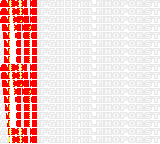
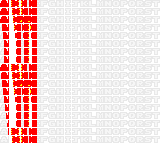
make timing great again

Changed region(s): [[0.1562, 0.0, 0.1875, 1.0], [0.0312, 0.0, 0.0625, 1.0]]

diff --git a/gb/src/cpu/cpu.rs b/gb/src/cpu/cpu.rs
@@ -5,7 +5,6 @@ use parse_display::{Display, FromStr};
 
 use crate::{
     emulator::{Hardware, SplitU16},
-    interrupts::R_IF,
     ppu::registers::{R_BGP, R_LCDC, R_OBP0, R_OBP1, R_SCX, R_SCY, R_STAT},
     traits::MemoryAccess,
 };
@@ -62,12 +61,11 @@ pub enum Reg16 {
 }
 
 const M_CYCLE_CLOCKS: u32 = 4;
-const LCDC_BG_ENABLE: u8 = 0b0000_0001;
 
 pub struct Cpu {
     pub frame_cycles: u32,
     pub total_cycles: u32,
-    // write which finishes one T-cycle after the end of M-cycle
+    // STAT write which finishes one T-cycle after the end of M-cycle
     delayed_write: Option<(u16, u8)>,
 
     pub halted: bool,
@@ -226,9 +224,11 @@ impl Cpu {
 
     // Some DMG registers are written at a different T-cycle than the end of the M-cycle,
     // see "conflict maps" https://github.com/LIJI32/SameBoy/blob/master/Core/sm83_cpu.c
+    // and https://github.com/Docheinstein/docboy (CPU writes at T1, reads at T3, i.e. 2 dots
+    // before the read, which is T2 here)
     pub fn write_u8_tick(&mut self, hw: &mut Hardware, address: u16, value: u8) {
         match address {
-            // Palettes and LCDC are written in 2 steps, the old value is merged with the new one first
+            // Palettes are written in 2 steps, the old value is merged with the new one first
             R_BGP | R_OBP0 | R_OBP1 => {
                 self.tick_range(hw, 0, 2);
                 let old_value = hw.read_byte(address);
@@ -237,15 +237,8 @@ impl Cpu {
                 hw.write_byte(address, value);
                 self.tick_range(hw, 3, M_CYCLE_CLOCKS);
             }
-            R_LCDC => {
-                self.tick_range(hw, 0, 2);
-                let old_value = hw.read_byte(address);
-                hw.write_byte(address, old_value | (value & LCDC_BG_ENABLE));
-                self.tick_range(hw, 2, 3);
-                hw.write_byte(address, value);
-                self.tick_range(hw, 3, M_CYCLE_CLOCKS);
-            }
-            R_SCX => {
+            // Written at docboy's write timing (LCDC on/off happens immediately)
+            R_LCDC | R_SCX => {
                 self.tick_range(hw, 0, 2);
                 hw.write_byte(address, value);
                 self.tick_range(hw, 2, M_CYCLE_CLOCKS);
@@ -254,12 +247,6 @@ impl Cpu {
                 self.tick_range(hw, 0, 3);
                 hw.write_byte(address, value);
                 self.tick_range(hw, 3, M_CYCLE_CLOCKS);
-            }
-            // CPU write "wins" over the interrupts requested during the next T-cycle
-            R_IF => {
-                self.tick(hw);
-                hw.write_byte(address, value);
-                self.delayed_write = Some((address, value));
             }
             // DMG bug: STAT behaves as if 0xff was written for a single T-cycle
             R_STAT => {
@@ -325,6 +312,9 @@ impl Cpu {
                 if let Some((address, value)) = self.delayed_write.take() {
                     hw.write_byte(address, value);
                 }
+                // IF write blocks the requests until the end of docboy's M-cycle (T3), which is
+                // the first T-cycle of the next M-cycle here
+                hw.interrupts.unblock_requests();
             }
         }
 

diff --git a/gb/src/interrupts.rs b/gb/src/interrupts.rs
@@ -37,7 +37,7 @@ impl InterruptBits {
  * Bit 1: LCDC (see STAT)
  * Bit 0: V-Blank
  */
-pub const R_IF: u16 = 0xff0f;
+const R_IF: u16 = 0xff0f;
 
 /**
  * Interrupt Enable (R/W)
@@ -62,6 +62,9 @@ pub struct InterruptController {
      * When bits are set, the corresponding interrupt can be triggered
      */
     interrupt_enable: InterruptBits,
+
+    // Writing IF blocks the interrupt requests for the rest of the M-cycle (CPU write "wins")
+    requests_blocked: bool,
 }
 
 const INTERRUPTS_PRIORITY: [InterruptBits; 5] = [
@@ -77,6 +80,7 @@ impl InterruptController {
         InterruptController {
             interrupt_enable: InterruptBits::empty(),
             interrupt_flag: InterruptBits::empty(),
+            requests_blocked: false,
         }
     }
 
@@ -86,7 +90,14 @@ impl InterruptController {
     }
 
     pub fn request_interrupt(&mut self, bit: InterruptBits) {
+        if self.requests_blocked {
+            return;
+        }
         self.interrupt_flag.insert(bit);
+    }
+
+    pub fn unblock_requests(&mut self) {
+        self.requests_blocked = false;
     }
 
     pub fn has_available_interrupts(&mut self) -> bool {
@@ -126,7 +137,10 @@ impl MemoryAccess for InterruptController {
     fn write_byte(&mut self, address: u16, value: u8) {
         match address {
             R_IE => self.interrupt_enable = InterruptBits::from_bits_truncate(value),
-            R_IF => self.interrupt_flag = InterruptBits::from_bits_truncate(value),
+            R_IF => {
+                self.interrupt_flag = InterruptBits::from_bits_truncate(value);
+                self.requests_blocked = true;
+            }
             _ => invalid_address("Interrupts (write)", address),
         }
     }

diff --git a/gb/src/ppu/ppu.rs b/gb/src/ppu/ppu.rs
@@ -44,8 +44,9 @@ const LAST_VBLANK_LINE_END: u32 = TOTAL_LINE_CLOCKS + 1;
 // The first line after the LCD is turned on is special - no OAM scan (STAT reports mode 0) and it's shorter
 const FIRST_LINE_OAM_BLOCK: u32 = 79;
 const FIRST_LINE_END: u32 = TOTAL_LINE_CLOCKS - 2;
-// Line clock when the LCD is turned on (LCDC is written 1 T-cycle before the end of M-cycle)
-const LCD_ON_LINE_CLOCKS: u32 = 2;
+// Line clock when the LCD is turned on (LCDC is written 2 T-cycles before the end of M-cycle),
+// the LCD-on sequence then matches SameBoy (which turns the LCD on 1 T-cycle before the end)
+const LCD_ON_LINE_CLOCKS: u32 = 1;
 // The pixel pipeline (fetcher + FIFO) starts a few dots before STAT reports mode 3,
 // the first line after LCD-on included (SameBoy reaches `mode_3_start` at the same dot)
 const PIPELINE_START: u32 = 78;

diff --git a/docs/results/results.md b/docs/results/results.md
@@ -244,7 +244,7 @@ https://github.com/mattcurrie/mealybug-tearoom-tests
 | m2_win_en_toggle                  | ![](m2_win_en_toggle/expected.png)                  | ![](m2_win_en_toggle/result.png)                  | ![](m2_win_en_toggle/diff.png)                  | ✅ Diff: 0     |
 | m3_bgp_change                     | ![](m3_bgp_change/expected.png)                     | ![](m3_bgp_change/result.png)                     | ![](m3_bgp_change/diff.png)                     | ✅ Diff: 0     |
 | m3_bgp_change_sprites             | ![](m3_bgp_change_sprites/expected.png)             | ![](m3_bgp_change_sprites/result.png)             | ![](m3_bgp_change_sprites/diff.png)             | ❌ Diff: 6865  |
-| m3_lcdc_bg_en_change              | ![](m3_lcdc_bg_en_change/expected.png)              | ![](m3_lcdc_bg_en_change/result.png)              | ![](m3_lcdc_bg_en_change/diff.png)              | ❌ Diff: 2920  |
+| m3_lcdc_bg_en_change              | ![](m3_lcdc_bg_en_change/expected.png)              | ![](m3_lcdc_bg_en_change/result.png)              | ![](m3_lcdc_bg_en_change/diff.png)              | ❌ Diff: 2874  |
 | m3_lcdc_bg_map_change             | ![](m3_lcdc_bg_map_change/expected.png)             | ![](m3_lcdc_bg_map_change/result.png)             | ![](m3_lcdc_bg_map_change/diff.png)             | ❌ Diff: 2386  |
 | m3_lcdc_obj_en_change             | ![](m3_lcdc_obj_en_change/expected.png)             | ![](m3_lcdc_obj_en_change/result.png)             | ![](m3_lcdc_obj_en_change/diff.png)             | ❌ Diff: 146   |
 | m3_lcdc_obj_en_change_variant     | ![](m3_lcdc_obj_en_change_variant/expected.png)     | ![](m3_lcdc_obj_en_change_variant/result.png)     | ![](m3_lcdc_obj_en_change_variant/diff.png)     | ❌ Diff: 1145  |
@@ -253,7 +253,7 @@ https://github.com/mattcurrie/mealybug-tearoom-tests
 | m3_lcdc_tile_sel_change           | ![](m3_lcdc_tile_sel_change/expected.png)           | ![](m3_lcdc_tile_sel_change/result.png)           | ![](m3_lcdc_tile_sel_change/diff.png)           | ❌ Diff: 2574  |
 | m3_lcdc_tile_sel_win_change       | ![](m3_lcdc_tile_sel_win_change/expected.png)       | ![](m3_lcdc_tile_sel_win_change/result.png)       | ![](m3_lcdc_tile_sel_win_change/diff.png)       | ❌ Diff: 1563  |
 | m3_lcdc_win_en_change_multiple    | ![](m3_lcdc_win_en_change_multiple/expected.png)    | ![](m3_lcdc_win_en_change_multiple/result.png)    | ![](m3_lcdc_win_en_change_multiple/diff.png)    | ❌ Diff: 8169  |
-| m3_lcdc_win_en_change_multiple_wx | ![](m3_lcdc_win_en_change_multiple_wx/expected.png) | ![](m3_lcdc_win_en_change_multiple_wx/result.png) | ![](m3_lcdc_win_en_change_multiple_wx/diff.png) | ❌ Diff: 4049  |
+| m3_lcdc_win_en_change_multiple_wx | ![](m3_lcdc_win_en_change_multiple_wx/expected.png) | ![](m3_lcdc_win_en_change_multiple_wx/result.png) | ![](m3_lcdc_win_en_change_multiple_wx/diff.png) | ❌ Diff: 3741  |
 | m3_lcdc_win_map_change            | ![](m3_lcdc_win_map_change/expected.png)            | ![](m3_lcdc_win_map_change/result.png)            | ![](m3_lcdc_win_map_change/diff.png)            | ❌ Diff: 1096  |
 | m3_obp0_change                    | ![](m3_obp0_change/expected.png)                    | ![](m3_obp0_change/result.png)                    | ![](m3_obp0_change/diff.png)                    | ❌ Diff: 414   |
 | m3_scx_high_5_bits                | ![](m3_scx_high_5_bits/expected.png)                | ![](m3_scx_high_5_bits/result.png)                | ![](m3_scx_high_5_bits/diff.png)                | ❌ Diff: 6426  |
@@ -284,4 +284,4 @@ Only DMG-related tests for now. From https://github.com/c-sp/age-test-roms
 | roms/age-test-roms/build/stat-mode-window/stat-mode-window-dmgC.gb          | ❌     | ![](age-tests/stat-mode-window-dmgC.gb/result.png)         |
 | roms/age-test-roms/build/vram/vram-read-dmgC.gb                             | ✅     | ![](age-tests/vram-read-dmgC.gb/result.png)                |
 
-Generated at: 2026-10-06 13:00:30.557554 UTC, took 3s
+Generated at: 2026-10-06 13:10:27.061282 UTC, took 3s

diff --git a/docs/dmg-timing.md b/docs/dmg-timing.md
@@ -1,0 +1,77 @@
+# DMG timing notes
+
+Observed DMG behaviour modelled by feather-gb.
+
+References: [SameBoy](https://github.com/LIJI32/SameBoy) (`Core/sm83_cpu.c`, `Core/display.c`), [docboy](https://github.com/Docheinstein/docboy) (`ppu/ppu.cpp`, `interrupts/interrupts.h`, `timers/timers.cpp`).
+
+T0–T3 are the T-cycles of an M-cycle. A line dot is counted from the LY change (dot 0). Only relative timing can be compared across emulators, because each one puts the CPU/PPU phase origin somewhere else.
+
+## CPU access
+
+Hardware ticks first, and reads/writes happen at the end of the M-cycle.
+
+## Register writes
+
+Plain writes land at the end of the M-cycle. These registers differ:
+
+| Register | Behaviour | Tests | References |
+|---|---|---|---|
+| BGP, OBP0/1 | PPU sees `old \| new` for one dot (T2), then `new` | Mealybug `m3_bgp_change` | SameBoy, docboy (BGP only) |
+| STAT | Behaves as `0xFF` for one T-cycle, then the real value applies (STAT write bug) | Wilbertpol `stat_write_if-GS` | SameBoy, docboy |
+| LCDC | Written at T2. LCD on/off takes effect immediately | LCD-on timing tests | docboy (SameBoy writes BG_EN at T2, rest at T3) |
+| IF | Write wins: interrupt requests are blocked until the end of the first dot of the next M-cycle | none | docboy (SameBoy: written 1 T-cycle later) |
+| SCX | Written at T2 | none | SameBoy |
+| SCY | Written at T3 | none | SameBoy |
+
+## Interrupts and HALT
+
+- Interrupts are checked at the end of the opcode fetch. If one is pending, the fetched opcode is discarded and dispatch takes 4 more M-cycles: 2 internal, push PC high, push PC low.
+- The vector is picked after the high byte is pushed, so a push over IE can cancel the dispatch (Mooneye `ie_push`).
+- While halted, interrupts are sampled 2 dots into each M-cycle. Each halted M-cycle behaves like a NOP fetch.
+- Waking with IME=0 executes the next opcode without an extra M-cycle.
+
+## Timer
+
+After TIMA overflows it reads `0x00` for 4 T-cycles. Then TMA is loaded and the interrupt is requested at the same time (Wilbertpol `timer_if`). References: SameBoy, docboy.
+
+## PPU
+
+**Screen lines (0–143)**, 456 dots:
+
+| Dot | Event |
+|---|---|
+| 0 | LY changes. STAT reads mode 0. LY=LYC flag cleared. Mode 2 STAT interrupt fires (1 dot before STAT shows mode 2; not on line 0) |
+| 1 | STAT mode 2. LY=LYC compared |
+| 77 | VRAM reads blocked |
+| 81 | STAT mode 3 |
+| mode 3 end | STAT mode 0. Mode 0 interrupt fires 1 dot later |
+
+**First line after LCD on:**
+- STAT stays in mode 0 during OAM scan, and there is no mode 2 interrupt.
+- The LCD turns on 1 T-cycle before the end of the LCDC-writing M-cycle, which corresponds to line dot 2.
+- Mode 3 starts at dot 81, as on normal lines.
+- The line is 2 dots shorter.
+
+**V-Blank lines (144–153):**
+- LY changes 1 dot earlier than on screen lines: line 143 is 455 dots, line 153 is 457.
+- LY=LYC comparison is off from 2 dots before the LY change until dot 2.
+- Line 144:
+  - Dot 0: STAT interrupt fires if bit 5 (OAM) is enabled.
+  - Dot 3: mode 1 and the V-Blank interrupt. Bit 5 also triggers a STAT interrupt here.
+- Line 153:
+  - Dot 0: LY reads 153.
+  - Dot 4: LY reads 0 and LY=LYC is compared against 153.
+  - Dots 6–9: comparison off.
+  - From dot 10: compared against 0.
+
+## Calibrated, not derived
+
+- Pixel pipeline start (dot 78): depends on our fetcher, which is built differently from other emulators.
+- DIV (`0xABCB`) and the PPU position when the boot ROM is skipped.
+
+## Not modelled
+
+- LCDC `OBJ_EN` write special cases and the window-disable glitch.
+- WX 1-dot "just changed" glitch.
+- Sprite penalty during mode 3.
+- Most mid-scanline register changes (Mealybug `m3_*`).
